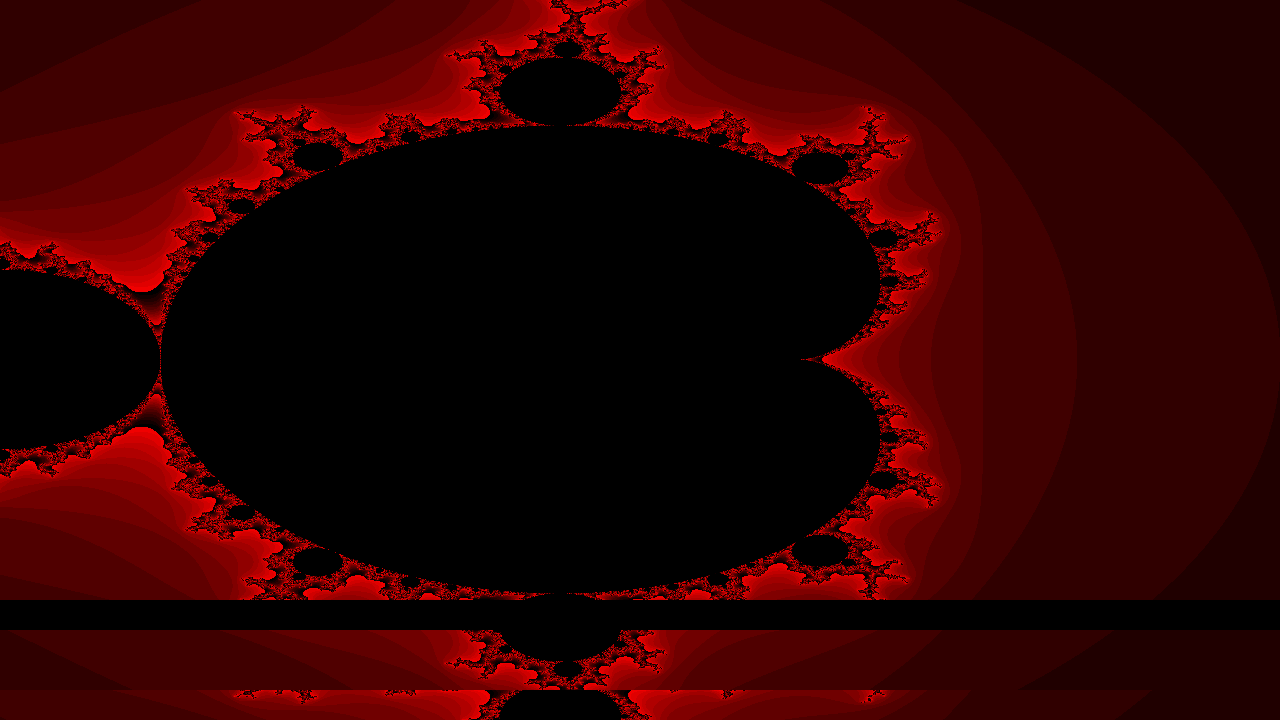
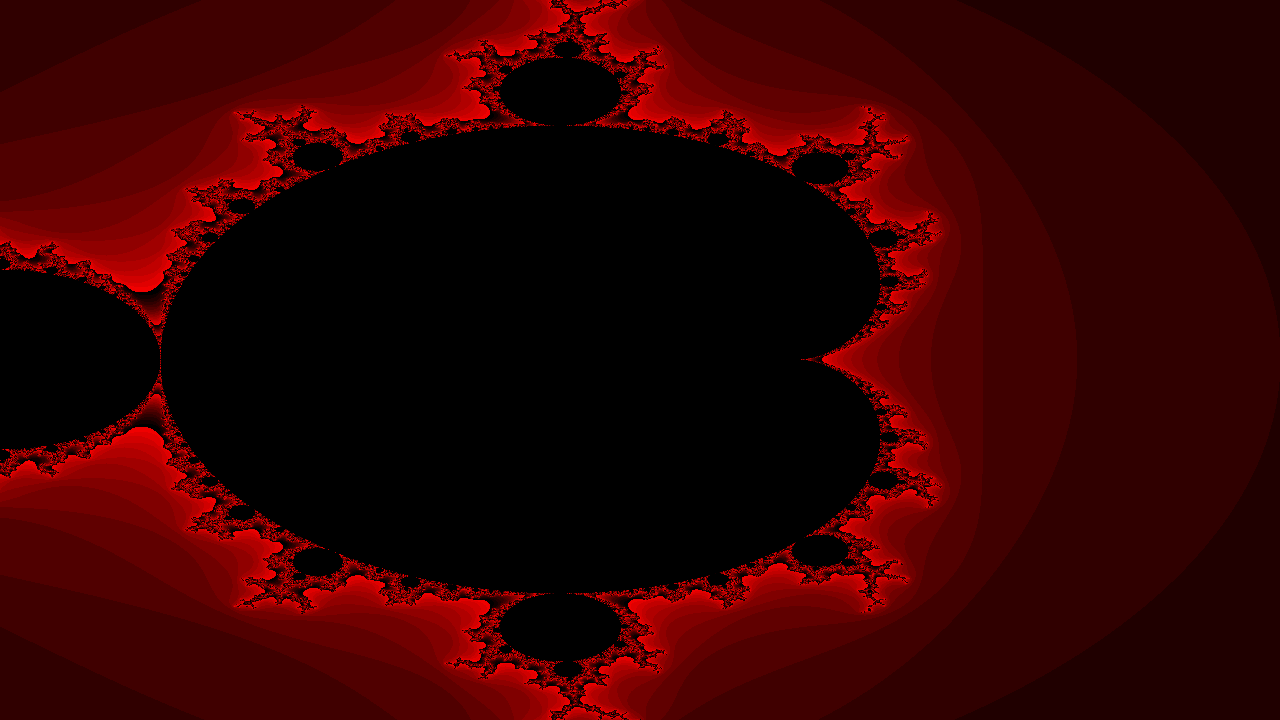
complete

diff --git a/ms_hybrid.c b/ms_hybrid.c
@@ -48,6 +48,7 @@ int width, height;
 char* filename;
 png_bytep line_png;
 
+/*
 void write_png(const char* filename, const int width, const int height, const int* buffer) {
     FILE* fp = fopen(filename, "wb");
     assert(fp);
@@ -75,7 +76,7 @@ void write_png(const char* filename, const int width, const int height, const in
     fclose(fp);
 }
 
-
+*/
 
 
 int test(double *x, double *y, double *y2){
@@ -181,11 +182,9 @@ inline void worker(){
 
 // tag = 1: task signal
 // tag = -1: end signal
-inline void manager(int *image){
-    //int *image = (int*)malloc(width * height * sizeof(int));
-    int *worker_list = (int*)malloc(world_size*2 * sizeof(int));
+inline void manager(){
 
-    assert(image);
+    int *worker_list = (int*)malloc(world_size*2 * sizeof(int));
     assert(worker_list);
 
     int current_pixel=0;
@@ -227,6 +226,7 @@ inline void manager(int *image){
 
     int flag;
     MPI_Status status;
+    MPI_Request request;
     int wrank;
     //int parallel_threads = MIN(num_threads, (world_size-1) >> 1);
     int parallel_threads = MAX(1, num_threads/2);
@@ -241,10 +241,17 @@ inline void manager(int *image){
     int size;
 
     //divide remain task
-    #pragma omp parallel num_threads(parallel_threads) private(flag, status, wrank, off_c, size_c, off, size) shared(remain_pixel, done_pixel, current_pixel, worker_list, total_pixel, image)
+    #pragma omp parallel num_threads(parallel_threads) private(flag, status, request, wrank, off_c, size_c, off, size) shared(remain_pixel, done_pixel, current_pixel, worker_list, total_pixel, line_png)
     {
+        int *buffer = (int*)malloc(task_size * sizeof(int));
+        flag = -1;
         do{
-            MPI_Iprobe(MPI_ANY_SOURCE, MPI_ANY_TAG, MPI_COMM_WORLD, &flag, &status);
+            if(flag==-1){
+                MPI_Irecv(buffer, task_size, MPI_INT, MPI_ANY_SOURCE, MPI_ANY_TAG, MPI_COMM_WORLD, &request);
+                flag=0;
+            }//MPI_Iprobe(MPI_ANY_SOURCE, MPI_ANY_TAG, MPI_COMM_WORLD, &flag, &status);
+            
+            MPI_Test(&request, &flag, &status);
             if (flag){
                 wrank = status.MPI_SOURCE;
                 off_c = wrank*2;
@@ -252,7 +259,8 @@ inline void manager(int *image){
                 off = worker_list[off_c];
                 size = worker_list[size_c];
 
-                MPI_Recv(image+off, size, MPI_INT, wrank, wrank, MPI_COMM_WORLD, &status);
+                //memcpy(image+off, buffer, size*sizeof(int));
+               // MPI_Recv(image+off, size, MPI_INT, wrank, wrank, MPI_COMM_WORLD, &status);
 
                 #pragma omp atomic
                 done_pixel += size;
@@ -261,9 +269,9 @@ inline void manager(int *image){
                 printf("Rank %d-%d: receive rank %d task(%d +%d)\n", world_rank, omp_get_thread_num(), wrank, off, size);
 #endif
 
-                //#pragma omp parallel sections num_threads(2) shared(remain_pixel, done_pixel, current_pixel, worker_list, total_pixel, line_png, image)
+                #pragma omp parallel sections num_threads(2) shared(remain_pixel, done_pixel, current_pixel, worker_list, total_pixel, line_png)
                 {
-                    //#pragma omp section
+                    #pragma omp section
                     {
                         if (remain_pixel > 0){
                             #pragma omp critical
@@ -289,19 +297,20 @@ inline void manager(int *image){
 #endif
                         }
                     }
-                    //#pragma omp section
-                    //{
+                    #pragma omp section
+                    {
 #ifdef __DEBUG__
-                      //  printf("Rank %d-%d: transfer to image(%d +%d)\n", world_rank, omp_get_thread_num(), off, size);
+                        printf("Rank %d-%d: transfer to image(%d +%d)\n", world_rank, omp_get_thread_num(), off, size);
 #endif
-                      //  for(int n=off;n<off+size;++n){
-                       //     line_png[n*3] = ((image[n] & 0xf) << 4); 
-                        //}
-                    //}
+                        for(int n=off;n<off+size;++n){
+                            line_png[n*3] = ((buffer[n-off] & 0xf) << 4); 
+                        }
+                    }
                 }
+                flag=-1;
             }//if tag
         }while(done_pixel < total_pixel);
-        
+        free(buffer);
     }
 
     free(worker_list);
@@ -363,20 +372,20 @@ int main(int argc, char **argv){
         omp_set_nested(1);
         // create image
         line_png = (png_bytep)malloc(total_pixel * 3 * sizeof(png_byte));
-        int *image = (int*)malloc(total_pixel*sizeof(int));
+        //int *image = (int*)malloc(total_pixel*sizeof(int));
 #ifdef __DEBUG__
         printf("Rank %d: line png size %d\n", world_rank, total_pixel * 3);
 #endif
         assert(line_png);
-        manager(image);
+        manager();
 
 #ifdef __DEBUG__
         printf("Rank %d: write to image %s\n", world_rank, filename);
 #endif
 
-        write_png(filename, width, height, image);
-        free(image);
-        /*
+        //write_png(filename, width, height, image);
+        //free(image);
+        
         FILE* fp = fopen(filename, "wb");
         assert(fp);
         png_structp png_ptr = png_create_write_struct(PNG_LIBPNG_VER_STRING, NULL, NULL, NULL);
@@ -388,18 +397,18 @@ int main(int argc, char **argv){
                  PNG_COMPRESSION_TYPE_DEFAULT, PNG_FILTER_TYPE_DEFAULT);
         png_write_info(png_ptr, info_ptr);
 
-        png_bytepp rf = (png_bytepp)malloc(height * sizeof(png_bytep));
+        png_bytepp image = (png_bytepp)malloc(height * sizeof(png_bytep));
 
         for(int y=0;y<height;++y){
-            rf[y] = (png_bytep)(line_png + (height - 1 - y) * width*3);
+            image[y] = (png_bytep)(line_png + (height - 1 - y) * width*3);
         }
         
-        png_write_image(png_ptr, rf);
+        png_write_image(png_ptr, image);
         png_write_end(png_ptr, NULL);
         png_destroy_write_struct(&png_ptr, &info_ptr);
-        fclose(fp);*/
+        fclose(fp);
         free(line_png);
-        //free(rf);
+        free(image);
 
     }
 

diff --git a/ms_omp_static.c b/ms_omp_static.c
@@ -1,0 +1,144 @@
+#define PNG_NO_SETJMP
+
+#include <assert.h>
+#include <png.h>
+#include <stdio.h>
+#include <stdlib.h>
+#include <string.h>
+#include <math.h>
+
+
+void write_png(const char* filename, const int width, const int height, const int* buffer) {
+    FILE* fp = fopen(filename, "wb");
+    assert(fp);
+    png_structp png_ptr = png_create_write_struct(PNG_LIBPNG_VER_STRING, NULL, NULL, NULL);
+    assert(png_ptr);
+    png_infop info_ptr = png_create_info_struct(png_ptr);
+    assert(info_ptr);
+    png_init_io(png_ptr, fp);
+    png_set_IHDR(png_ptr, info_ptr, width, height, 8, PNG_COLOR_TYPE_RGB, PNG_INTERLACE_NONE,
+                 PNG_COMPRESSION_TYPE_DEFAULT, PNG_FILTER_TYPE_DEFAULT);
+    png_write_info(png_ptr, info_ptr);
+    size_t row_size = 3 * width * sizeof(png_byte);
+    png_bytep row = (png_bytep)malloc(row_size);
+    for (int y = 0; y < height; ++y) {
+        memset(row, 0, row_size);
+        for (int x = 0; x < width; ++x) {
+            int p = buffer[(height - 1 - y) * width + x];
+            row[x * 3] = ((p & 0xf) << 4);
+        }
+        png_write_row(png_ptr, row);
+    }
+    free(row);
+    png_write_end(png_ptr, NULL);
+    png_destroy_write_struct(&png_ptr, &info_ptr);
+    fclose(fp);
+}
+
+
+inline int test(double x, double y, double y2){
+    double xp = x-0.25;
+    double cp = x+1;
+    double theta = atan2(y, xp);
+    double r = 0.5*(1-cos(theta));
+    return (r*r >= xp*xp + y2) || (0.0625 >= cp*cp + y2);
+}
+
+
+int main(int argc, char** argv) {
+    /* argument parsing */
+    assert(argc == 9);
+    int num_threads = strtol(argv[1], 0, 10);
+    double left = strtod(argv[2], 0);
+    double right = strtod(argv[3], 0);
+    double lower = strtod(argv[4], 0);
+    double upper = strtod(argv[5], 0);
+    int width = strtol(argv[6], 0, 10);
+    int height = strtol(argv[7], 0, 10);
+    const char* filename = argv[8];
+
+    FILE *fp = fopen(filename, "wb");
+    assert(fp);
+
+    //create write struct
+    png_structp png_ptr = png_create_write_struct(PNG_LIBPNG_VER_STRING, NULL, NULL, NULL);
+    assert(png_ptr);
+
+    //create info struct
+    png_infop info_ptr = png_create_info_struct(png_ptr);
+    assert(info_ptr);
+
+    //init io
+    png_init_io(png_ptr, fp);
+
+    //set IHDR
+    png_set_IHDR(png_ptr, info_ptr, width, height, 8, PNG_COLOR_TYPE_RGB, PNG_INTERLACE_NONE, PNG_COMPRESSION_TYPE_DEFAULT, PNG_FILTER_TYPE_DEFAULT);
+    png_write_info(png_ptr, info_ptr);
+
+    size_t row_size = 3 * width * sizeof(png_byte);
+    png_bytep png_row = (png_bytep)malloc(row_size);
+
+    /* allocate memory for image */
+    int* image = (int*)malloc(width * height * sizeof(int));
+    assert(image);
+
+
+    double y0, x0;
+    int repeats;
+    double x, y, x2, y2, xy, len;
+    int i, j;
+    /* mandelbrot set */
+#pragma omp parallel num_threads(num_threads) private(x0, y0, repeats, x, y, x2, y2, xy, len, i, j) shared(image)
+#pragma omp for schedule(static) collapse(2)
+    for (j = 0; j < height; ++j) {
+        for (i = 0; i < width; ++i) {
+            y0 = j * ((upper - lower) / height) + lower;
+            x0 = i * ((right - left) / width) + left;
+
+            repeats = 1;
+            x = x0;
+            y = y0;
+            x2 = x*x;
+            y2 = y*y;
+            xy = x*y;
+            len = x2 + y2;
+
+            if(test(x, y, y2)){
+                repeats = 100000;
+            }else{
+                while (repeats < 100000 && len < 4) {
+                    x = x2 - y2 + x0;
+                    y = xy + xy + y0;
+                    x2 = x*x;
+                    y2 = y*y;
+                    xy = x*y;
+                    len = x2+y2;
+                    ++repeats;
+                }
+            }
+            image[j * width + i] = repeats;
+        }
+    }
+
+
+    for (int y = 0; y < height; ++y) {
+        memset(png_row, 0, row_size);
+
+#pragma omp parallel for num_threads(num_threads) schedule(dynamic)
+        for (int x = 0; x < width; ++x) {
+            int p = image[(height - 1 - y) * width + x];
+            png_row[x * 3] = ((p & 0xf) << 4);
+        }
+
+        png_write_row(png_ptr, png_row);
+    }
+    free(png_row);
+    png_write_end(png_ptr, NULL);
+    png_destroy_write_struct(&png_ptr, &info_ptr);
+    fclose(fp);
+
+    /* draw and cleanup */
+    //write_png(filename, width, height, image);
+    free(image);
+    return 0;
+}
